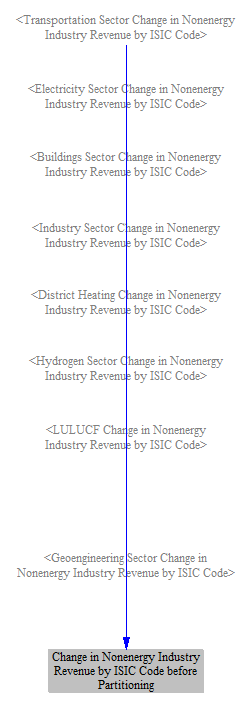
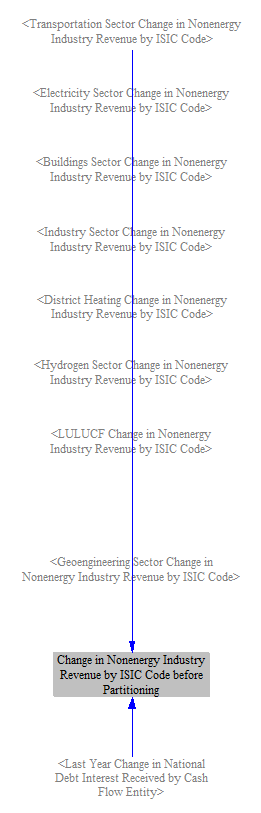
Update cross-sector totals docs again to reflect recent updates to 3.0.0

Changed region(s): [[0.084, 0.0, 0.924, 0.9902]]

diff --git a/docs/cross-sector-totals.md b/docs/cross-sector-totals.md
@@ -65,7 +65,7 @@ The first step is to total the change in non-energy industry expenditures by ISI
 
 ![summing non-energy expenditures by ISIC code](cross-sector-totals-NonEnerExpendByISIC.png)
 
-Tracking the change in revenues by ISIC code and by cash flow entity is more complicated.  Revenue assignments to specific ISIC codes were already made in various sectors (transportation, buildings, etc.), but labor and tax shares of the assignments to non-energy industries were not separated out within the sectors.  We must do that here, in a process called "partitioning."  First, we total the changes in revenue by ISIC code prior to partitioning.
+Tracking the change in revenues by ISIC code and by cash flow entity is more complicated.  Revenue assignments to specific ISIC codes were already made in various sectors (transportation, buildings, etc.), but labor and tax shares of the assignments to non-energy industries were not separated out within the sectors.  We must do that here, in a process called "partitioning."  First, we total the changes in revenue by ISIC code prior to partitioning.  (We also allocate any change in interest paid on the national debt to nonenergy industries at this stage - for more on this, see the documentation page on the [input-output model](io-model.html).)
 
 ![summing non-energy revenues by ISIC code before partitioning](cross-sector-totals-NonEnerRevByISICBfrPttn.png)
 
@@ -110,6 +110,10 @@ The next step is to sum policy-driven changes in expenditures and revenues for e
 Similarly, we sum changes in revenues for each cash flow entity across all sectors.  This includes the effect of the partitioning we completed in the steps above (in the gray box in the following screenshot).  The sum of all cash flow changes within the gray box (i.e. across the nine cash flow entities) is zero, because partitioning doesn't alter the total change in revenue - it simply reallocates some to labor, to government, and to foreign entities.
 
 ![summing changes in revenues](cross-sector-totals-SumCngRevenues.png)
+
+We also assign changes in national debt interest payments, with expenses paid by government and revenues for those entities that own government debt.  (The interest received by the "non-energy industries" cash flow entity was allocated to ISIC codes earlier on this sheet.)
+
+![assigning changes in interest on national debt](cross-sector-totals-NatnlDebtIntByEntity.png)
 
 We know how much of the output of each energy industry and non-energy industry was purchased by "foreign entities," so we are able to subdivide the change in revenue by entity into change in export revenue and change in domestic revenue.  We break this out here to enable us to show this revenue breakdown in output graphs.
 
